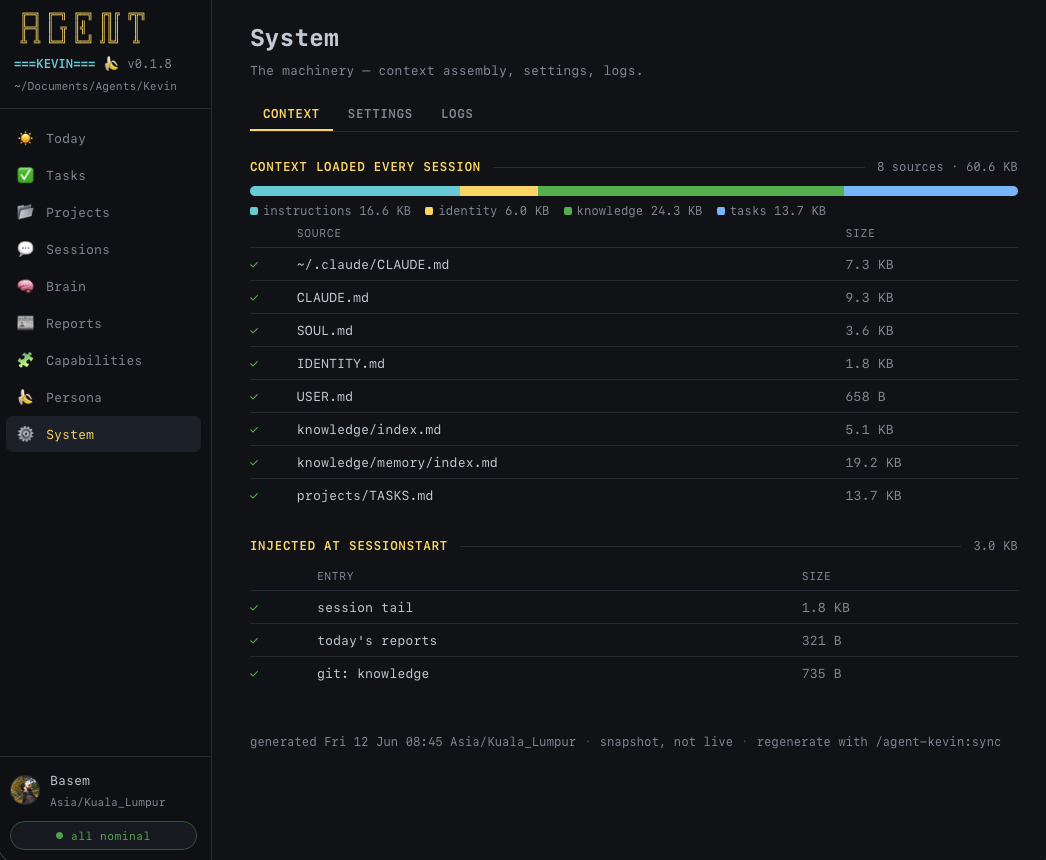
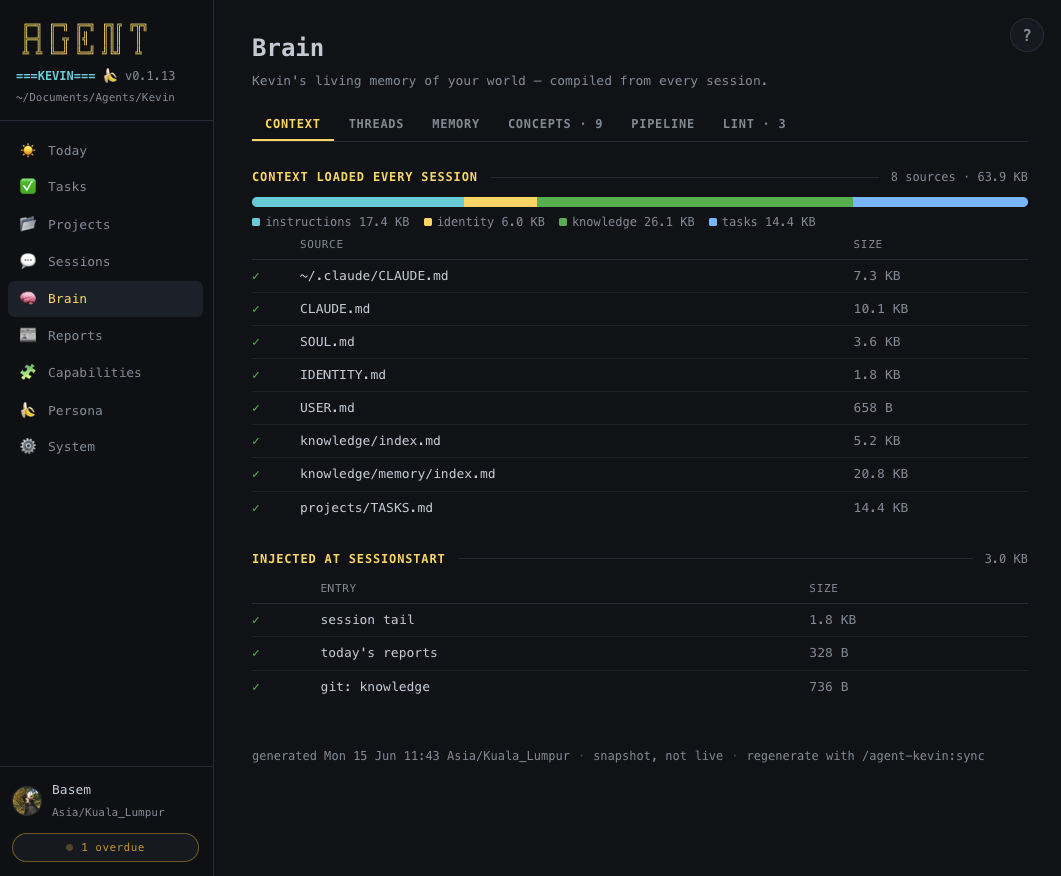
Updates to dashboard

diff --git a/mcp-server/src/status/dashboard.html b/mcp-server/src/status/dashboard.html
@@ -259,6 +259,60 @@ ul.plain li { padding: 3px 0; }
 footer { margin-top: 44px; color: var(--dim); font-size: 12px; }
 footer .sep { margin: 0 8px; opacity: 0.5; }
 
+/* ── help / keyboard shortcuts ─────────────────────────────────────── */
+.help-fab {
+  position: fixed; top: 18px; right: 22px; z-index: 50;
+  width: 34px; height: 34px; border-radius: 50%;
+  background: var(--panel); border: 1px solid var(--border); color: var(--dim);
+  font: 600 16px var(--mono); cursor: pointer;
+  display: flex; align-items: center; justify-content: center;
+  transition: color 0.15s, border-color 0.15s;
+}
+.help-fab:hover { color: var(--accent); border-color: var(--accent); }
+.help-overlay {
+  position: fixed; inset: 0; z-index: 60; padding: 56px 24px 24px;
+  background: rgba(0, 0, 0, 0.62);
+  display: flex; align-items: flex-start; justify-content: center; overflow-y: auto;
+}
+.help-overlay[hidden] { display: none; }
+.help-modal {
+  display: flex; flex-direction: column;
+  background: var(--panel); border: 1px solid var(--border); border-radius: 14px;
+  width: 100%; max-width: 560px; max-height: calc(100vh - 80px);
+  box-shadow: 0 24px 60px rgba(0, 0, 0, 0.5);
+}
+.help-head {
+  display: flex; align-items: center; justify-content: space-between; flex: none;
+  padding: 15px 20px; border-bottom: 1px solid var(--border);
+}
+.help-head h2 { margin: 0; font-size: 14px; color: var(--accent); letter-spacing: 0.04em; }
+.help-close {
+  background: none; border: none; color: var(--dim); cursor: pointer; font-size: 16px;
+  width: 28px; height: 28px; border-radius: 6px; flex: none;
+}
+.help-close:hover { color: var(--text); background: var(--panel-2); }
+.help-body { padding: 4px 20px 16px; overflow-y: auto; flex: 1 1 auto; }
+.help-body h3 {
+  margin: 18px 0 4px; font-size: 11px; font-weight: 600; color: var(--dim);
+  text-transform: uppercase; letter-spacing: 0.07em;
+}
+.help-table { width: 100%; border-collapse: collapse; }
+.help-table td { padding: 9px 8px; border-bottom: 1px solid var(--hairline); vertical-align: middle; }
+.help-table tr:last-child td { border-bottom: none; }
+.help-table td:first-child { white-space: nowrap; width: 1%; }
+.help-table td:last-child { color: var(--dim); font-size: 13px; }
+kbd {
+  display: inline-block; text-align: center;
+  background: var(--panel-2); border: 1px solid var(--border); border-bottom-width: 2px;
+  border-radius: 6px; padding: 3px 7px; margin: 1px;
+  font: 12px var(--mono); color: var(--text); line-height: 1.1; white-space: nowrap;
+}
+.help-sep { color: var(--dim); margin: 0 4px; }
+.help-foot {
+  padding: 12px 20px 15px; border-top: 1px solid var(--border); flex: none;
+  color: var(--dim); font-size: 12px;
+}
+
 @media (max-width: 760px) {
   body { flex-direction: column; }
   aside { width: 100%; height: auto; position: static; }
@@ -271,6 +325,35 @@ footer .sep { margin: 0 8px; opacity: 0.5; }
 </style>
 </head>
 <body>
+<button class="help-fab" id="help-open" title="Keyboard shortcuts (?)" aria-label="Keyboard shortcuts">?</button>
+<div class="help-overlay" id="help-overlay" hidden>
+  <div class="help-modal" role="dialog" aria-modal="true" aria-label="Keyboard shortcuts">
+    <div class="help-head">
+      <h2>⌨️ Keyboard shortcuts</h2>
+      <button class="help-close" id="help-close" aria-label="Close">✕</button>
+    </div>
+    <div class="help-body">
+      <h3>Editing a line in the terminal</h3>
+      <table class="help-table">
+        <tr><td><kbd>⌘ Cmd</kbd> <kbd>←</kbd> <span class="help-sep">/</span> <kbd>⌘ Cmd</kbd> <kbd>→</kbd></td><td>Jump to the start / end of the line</td></tr>
+        <tr><td><kbd>⌥ Option</kbd> <kbd>←</kbd> <span class="help-sep">/</span> <kbd>⌥ Option</kbd> <kbd>→</kbd></td><td>Move one word at a time</td></tr>
+        <tr><td><kbd>⌃ Ctrl</kbd> <kbd>W</kbd></td><td>Delete the word before the cursor</td></tr>
+        <tr><td><kbd>⌃ Ctrl</kbd> <kbd>K</kbd></td><td>Delete from the cursor to the end of the line</td></tr>
+        <tr><td><kbd>⌃ Ctrl</kbd> <kbd>U</kbd></td><td>Clear the whole line</td></tr>
+      </table>
+      <h3>Working with Claude</h3>
+      <table class="help-table">
+        <tr><td><kbd>Esc</kbd></td><td>Stop Claude mid-reply</td></tr>
+        <tr><td><kbd>Esc</kbd> <kbd>Esc</kbd></td><td>Go back and edit an earlier message</td></tr>
+        <tr><td><kbd>⇧ Shift</kbd> <kbd>Tab</kbd></td><td>Switch modes (plan / auto-accept edits)</td></tr>
+        <tr><td><kbd>⌃ Ctrl</kbd> <kbd>C</kbd></td><td>Cancel what you're typing, or quit</td></tr>
+        <tr><td><kbd>↑</kbd></td><td>Scroll back through your past messages</td></tr>
+        <tr><td><kbd>/</kbd> <span class="help-sep">·</span> <kbd>@</kbd> <span class="help-sep">·</span> <kbd>!</kbd></td><td>Slash command · mention a file · run a shell command</td></tr>
+      </table>
+    </div>
+    <div class="help-foot">Press <kbd>?</kbd> anytime to open this, <kbd>Esc</kbd> to close.</div>
+  </div>
+</div>
 <aside>
   <div class="side-banner">
 {{BANNER}}
@@ -336,6 +419,19 @@ footer .sep { margin: 0 8px; opacity: 0.5; }
   const fromHash = () => open(location.hash.replace('#', ''));
   window.addEventListener('hashchange', fromHash);
   fromHash();
+
+  // Help modal: ? opens, Esc / overlay click / ✕ closes. The ? shortcut is
+  // ignored while typing in a filter so it doesn't hijack the keystroke.
+  const helpOverlay = document.getElementById('help-overlay');
+  const setHelp = (show) => { helpOverlay.hidden = !show; };
+  document.getElementById('help-open').addEventListener('click', () => setHelp(true));
+  document.getElementById('help-close').addEventListener('click', () => setHelp(false));
+  helpOverlay.addEventListener('click', (event) => { if (event.target === helpOverlay) setHelp(false); });
+  document.addEventListener('keydown', (event) => {
+    const typing = /^(input|textarea)$/i.test(document.activeElement?.tagName || '');
+    if (event.key === 'Escape') setHelp(false);
+    else if (event.key === '?' && !typing) { event.preventDefault(); setHelp(true); }
+  });
 
   // Text filter: narrows [data-row] elements within the same filterbox.
   document.querySelectorAll('input.filter').forEach((input) => {

diff --git a/mcp-server/src/status/html-render.ts b/mcp-server/src/status/html-render.ts
@@ -647,8 +647,9 @@ const pageBrain = (snap: StatusSnapshot): string => {
     'Brain',
     `${snap.persona.name}'s living memory of your world — compiled from every session.`,
     subTabs([
-      { id: 'threads', label: 'Threads', body: threads },
+      { id: 'context', label: 'Context', body: buildContextBody(snap) },
       { id: 'memory', label: 'Memory', body: memory },
+      { id: 'threads', label: 'Threads', body: threads },
       {
         id: 'concepts',
         label: `Concepts · ${knowledge.concepts}`,
@@ -930,8 +931,11 @@ const MANIFEST_ICON: Record<ManifestEntry['status'], { icon: string; cls: string
   unavailable: { icon: '⚠', cls: 'warn' }
 };
 
-const pageSystem = (snap: StatusSnapshot): string => {
-  const { context, settings, logs } = snap;
+/** The "what loads into every session" view — static @-imports plus the
+ *  SessionStart injection. Lives on the Brain page (it's Kevin's context),
+ *  surfaced here as a standalone builder so pageBrain can mount it. */
+const buildContextBody = (snap: StatusSnapshot): string => {
+  const { context } = snap;
 
   const sums = (Object.keys(GROUP_COLORS) as ContextGroup[])
     .map((key) => ({
@@ -976,7 +980,7 @@ const pageSystem = (snap: StatusSnapshot): string => {
     ];
   });
 
-  const contextBody = [
+  return [
     section(
       'Context loaded every session',
       `${context.staticImports.length} sources · ${humanBytes(context.staticBytes)}`,
@@ -984,6 +988,10 @@ const pageSystem = (snap: StatusSnapshot): string => {
     ),
     section('Injected at SessionStart', humanBytes(context.dynamic.bytes), table(['', 'entry', 'size'], manifestRows))
   ].join('');
+};
+
+const pageSystem = (snap: StatusSnapshot): string => {
+  const { settings, logs } = snap;
 
   // Path-valued env vars (KEVIN_HOME etc.) become Finder links; masked
   // secrets and plain values render as text.
@@ -1057,9 +1065,8 @@ const pageSystem = (snap: StatusSnapshot): string => {
   return page(
     'system',
     'System',
-    'The machinery — context assembly, settings, logs.',
+    'The machinery — settings, logs.',
     subTabs([
-      { id: 'context', label: 'Context', body: contextBody },
       { id: 'settings', label: 'Settings', body: settingsBody },
       { id: 'logs', label: 'Logs', body: logsBody }
     ])
@@ -1120,7 +1127,7 @@ const pageStatus = (snap: StatusSnapshot): string => {
       ? missing
           .map(
             (item) =>
-              `<div class="row"><span class="bad" style="flex:none">✗</span><span class="grow">${esc(item.label)}</span>${navLink('system/context', 'see context table')}</div>`
+              `<div class="row"><span class="bad" style="flex:none">✗</span><span class="grow">${esc(item.label)}</span>${navLink('brain/context', 'see context table')}</div>`
           )
           .join('')
       : clearRow('All static imports present.'));

diff --git a/mcp-server/src/status/html.test.ts b/mcp-server/src/status/html.test.ts
@@ -69,7 +69,7 @@ const makeSnapshot = (overrides: Partial<StatusSnapshot> = {}): StatusSnapshot =
     monthly: ['Ship the MD Status application'],
     yearly: ['Q3: land MD Status; Q4: first customer']
   },
-  memoryThreads: ['al-005 MD portal blocked on 2-member rule', 'Walapay = day job, Ring 1'],
+  memoryThreads: ['al-005 MD portal blocked on 2-member rule', 'Acme Corp = day job, Ring 1'],
   memoryDecisions: ['BP v2.4→v2.5: third-party AI scrubbed'],
   memoryLearnings: ['One approval is not blanket commit license.'],
   memoryPending: ['al-014 corporate bank account awaiting CIMB HQ.'],